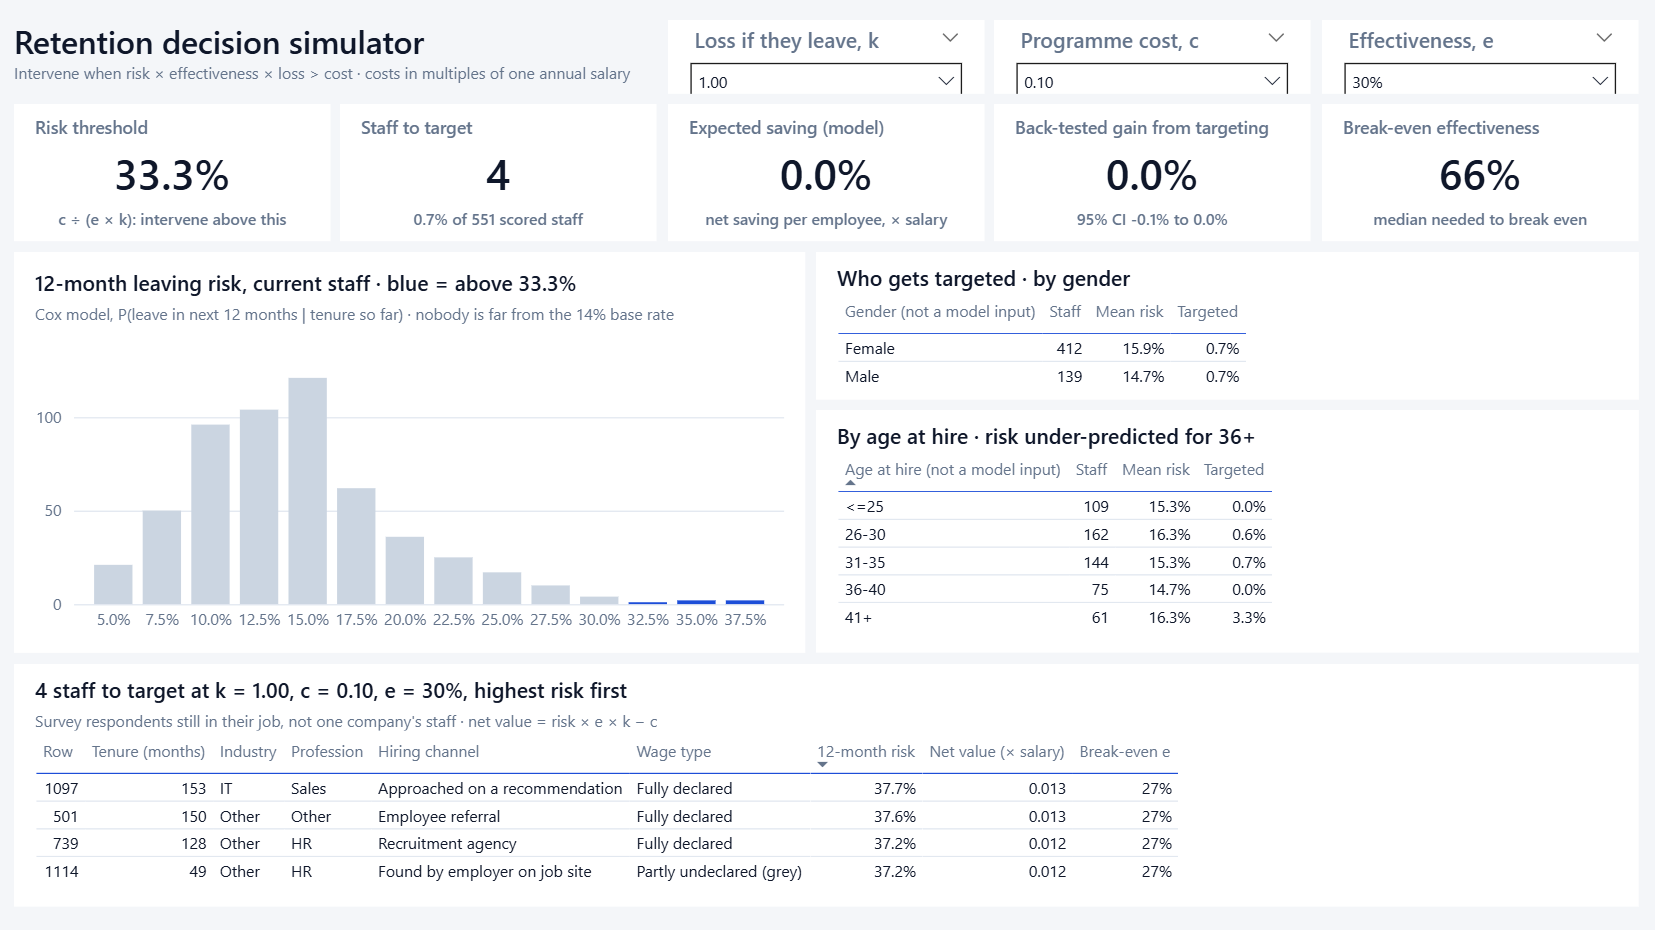
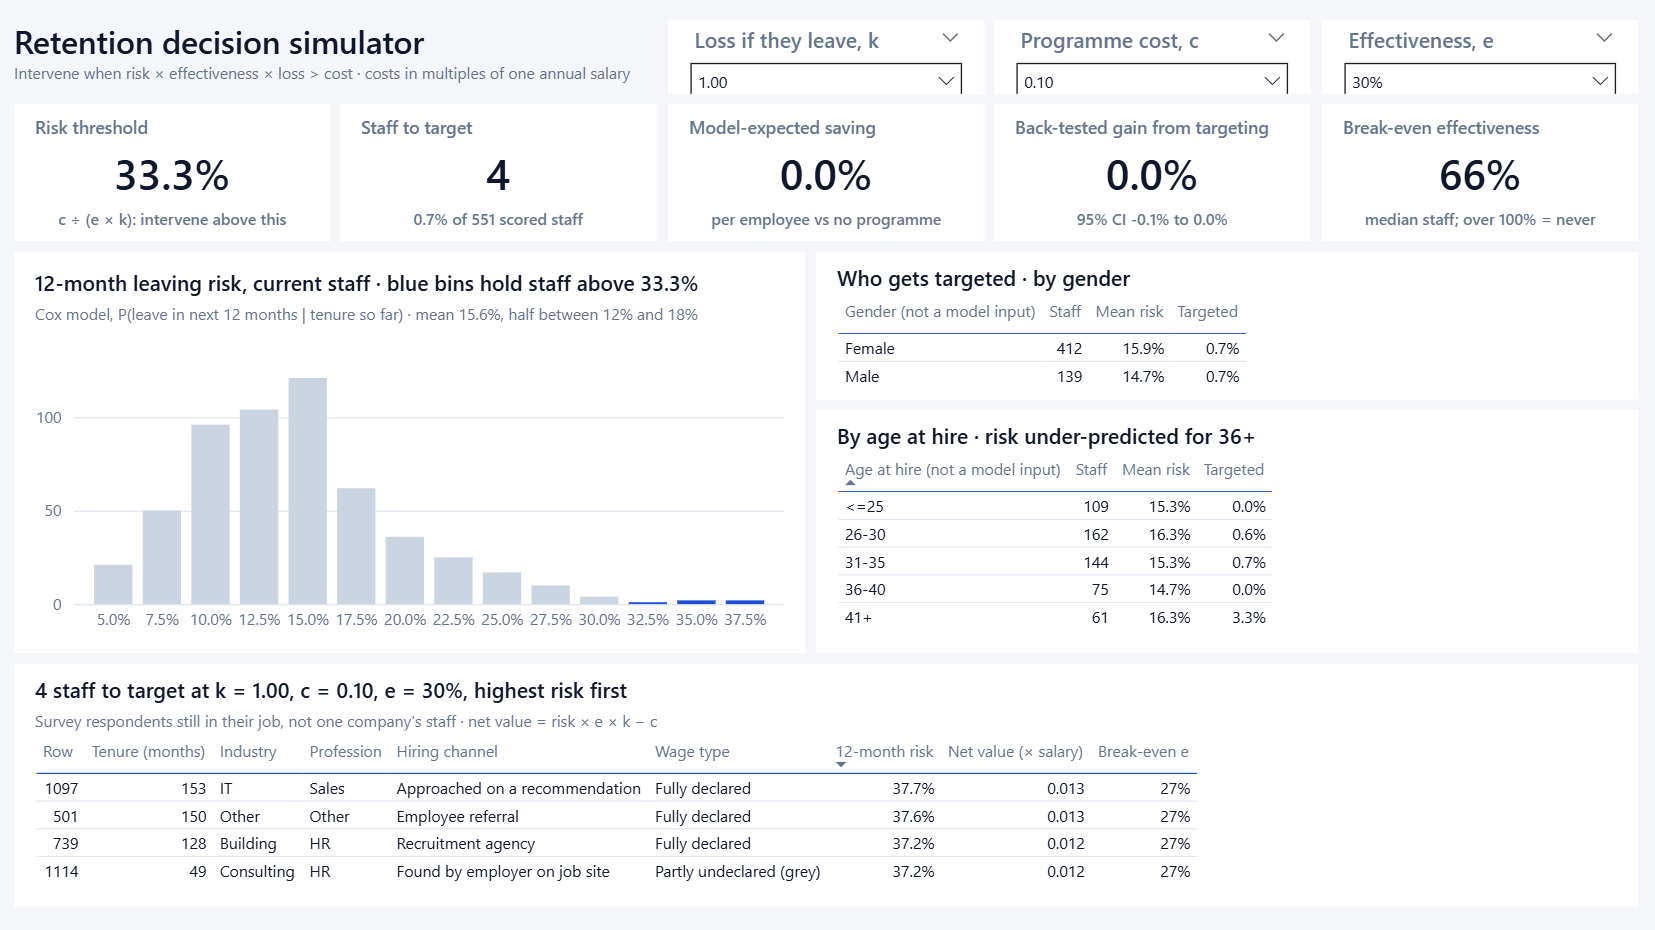
Address review of the Power BI report and memo
- Staff table pools rare categories with the full-data counts the model used
- Clearer KPI labels: model-expected saving is vs no programme; break-even is
  for the median staff member; off-grid back-test label lists the grid
- Histogram colours a bin if it holds anyone above the threshold
- No "-0.0%" in the back-test card; float-safe risk bins
- Memo/README: salary only cancels when both costs scale with pay; pilot
  needs about 600 per arm to detect 20% -> 14%; current-staff risk spread;
  20-25% first-year range for the fast-leaving industries

diff --git a/scripts/06_build_pbip.py b/scripts/06_build_pbip.py
@@ -132,29 +132,29 @@ DECISION_MEASURES = [
      "    backtest_grid[c_x100], ROUND ( [Sel c] * 100, 0 ),\n    backtest_grid[e_x100], ROUND ( [Sel e] * 100, 0 )\n)",
      "0.0%", "Decision"),
     ("Backtest Value",
-     'IF ( ISBLANK ( [Backtest Saving] ), "n/a", FORMAT ( [Backtest Saving], "+0.0%;-0.0%;0.0%" ) )', None, "Decision"),
+     'IF ( ISBLANK ( [Backtest Saving] ), "n/a", FORMAT ( ROUND ( [Backtest Saving], 3 ), "+0.0%;-0.0%;0.0%" ) )', None, "Decision"),
     ("Row Risk If Targeted",
      "VAR p = MAX ( staff[p_leave_12m] )\nRETURN\n    IF ( p > [Risk Threshold], p )", "0.0%", "Decision"),
     ("Row Net Value",
      "VAR p = MAX ( staff[p_leave_12m] )\nRETURN\n    IF ( p > [Risk Threshold], p * [Sel e] * [Sel k] - [Sel c] )", "0.000", "Decision"),
     ("Row Break-even e",
      "VAR p = MAX ( staff[p_leave_12m] )\nRETURN\n    IF ( p > [Risk Threshold], DIVIDE ( [Sel c], p * [Sel k] ) )", "0%", "Decision"),
-        ("Bin Color", f'IF ( MAX ( staff[risk_bin] ) + 0.0125 > [Risk Threshold], "{BLUE}", "{GREY}" )', None, "Colors"),
+        ("Bin Color", f'IF ( MAX ( staff[risk_bin] ) + 0.025 > [Risk Threshold], "{BLUE}", "{GREY}" )', None, "Colors"),
     ("Label Threshold", '"c ÷ (e × k): intervene above this"', None, "Labels"),
     ("Label Targeted", 'FORMAT ( [Share Targeted], "0.0%" ) & " of " & FORMAT ( [Staff Scored], "#,0" ) & " scored staff"',
      None, "Labels"),
-    ("Label Expected", '"net saving per employee, × salary"', None, "Labels"),
+    ("Label Expected", '"per employee vs no programme"', None, "Labels"),
     ("Label Backtest",
      "VAR lo = LOOKUPVALUE ( backtest_grid[lo95], backtest_grid[k_x100], ROUND ( [Sel k] * 100, 0 ), "
      "backtest_grid[c_x100], ROUND ( [Sel c] * 100, 0 ), backtest_grid[e_x100], ROUND ( [Sel e] * 100, 0 ) )\n"
      "VAR hi = LOOKUPVALUE ( backtest_grid[hi95], backtest_grid[k_x100], ROUND ( [Sel k] * 100, 0 ), "
      "backtest_grid[c_x100], ROUND ( [Sel c] * 100, 0 ), backtest_grid[e_x100], ROUND ( [Sel e] * 100, 0 ) )\nRETURN\n"
-     '    IF ( ISBLANK ( [Backtest Saving] ), "not a back-tested scenario",\n'
+     '    IF ( ISBLANK ( [Backtest Saving] ), "back-tested only for k 0.5/1/2, c .05/.1/.2",\n'
      '        "95% CI " & FORMAT ( lo, "0.0%" ) & " to " & FORMAT ( hi, "0.0%" ) )',
      None, "Labels"),
-    ("Label Break-even", '"median needed to break even"', None, "Labels"),
+    ("Label Break-even", '"median staff; over 100% = never"', None, "Labels"),
     ("Title Histogram",
-     '"12-month leaving risk, current staff · blue = above " & FORMAT ( [Risk Threshold], "0.0%" )', None, "Titles"),
+     '"12-month leaving risk, current staff · blue bins hold staff above " & FORMAT ( [Risk Threshold], "0.0%" )', None, "Titles"),
     ("Title Staff Table",
      'FORMAT ( [Staff Targeted], "#,0" ) & " staff to target at k = " & FORMAT ( [Sel k], "0.00" ) & ", c = " '
      '& FORMAT ( [Sel c], "0.00" ) & ", e = " & FORMAT ( [Sel e], "0%" ) & ", highest risk first"', None, "Titles"),
@@ -431,7 +431,7 @@ def page_decision():
              default="0.3D", alt="Choose the share of would-be leavers the intervention keeps.")
     kp = [("thr", "Risk Threshold", "Label Threshold", "Risk threshold"),
           ("tgt", "Staff Targeted", "Label Targeted", "Staff to target"),
-          ("exp", "Expected Saving", "Label Expected", "Expected saving (model)"),
+          ("exp", "Expected Saving", "Label Expected", "Model-expected saving"),
           ("bt", "Backtest Value", "Label Backtest", "Back-tested gain from targeting"),
           ("be", "Median Break-even e", "Label Break-even", "Break-even effectiveness")]
     for x, (key, val, lab, title) in zip(KPI_X, kp):
@@ -440,7 +440,7 @@ def page_decision():
             {"Category": {"projections": [C("staff", "risk_bin", "Predicted risk (2.5-point bins)", True)]},
              "Y": {"projections": [M("staff", "Staff Scored", "Staff")]}},
             {"expr": measure_ref("staff", "Title Histogram")},
-            "Cox model, P(leave in next 12 months | tenure so far) · nobody is far from the 14% base rate",
+            "Cox model, P(leave in next 12 months | tenure so far) · mean 15.6%, half between 12% and 18%",
             "Histogram of predicted 12-month leaving risk for current staff, bars above the threshold in blue.",
             objects={"dataPoint": [{"properties": {"fill": {"solid": {"color": {"expr": measure_ref(
                 "staff", "Bin Color")}}}},
@@ -509,7 +509,7 @@ def page_model():
         ("So the decision is driven by the assumptions. Targeting beats both 'nobody' and 'everybody' only when "
          "the threshold c ÷ (e·k) lands near the 14% base rate, and the best gain is 4.3% of one salary per employee.",
          "Segoe UI", "10pt", INK),
-        ("The number most worth measuring is e, the intervention's effectiveness, with a small randomised pilot.",
+        ("The number most worth measuring is e, the intervention's effectiveness, with a randomised pilot (about 600 people per arm to detect 20% → 14%).",
          "Segoe UI", "10pt", INK),
         ("Caveats: a self-selected survey, not one company · personality was measured at survey time · "
          "associations, not causes · data CC BY-NC-SA 4.0, © Edward Babushkin.", "Segoe UI", "9pt", MUTED),

diff --git a/scripts/05_export_bi.py b/scripts/05_export_bi.py
@@ -111,10 +111,13 @@ def main():
     hr.to_csv(BI / "hazard_ratios.csv", index=False, float_format="%.4f")
 
     staff = pd.read_csv(D.ROOT / "data" / "processed" / "staff_scores.csv")
-    for col in ["industry", "profession", "traffic", "coach", "greywage", "way"]:
-        staff[col] = factor_series(staff.assign(**{col: staff[col]}), col) if col in D.CATEGORICAL else staff[col]
+    for col in D.CATEGORICAL:
+        # pool with the full-data counts the model used, not the smaller staff subset's
+        kept = set(D.lump(d[col]))
+        staff[col] = staff[col].where(staff[col].isin(kept), "other").map(lambda v: label(col, v))
     staff["gender"] = staff["gender"].map(LEVELS["gender"])
-    staff["risk_bin"] = np.floor(staff["p_leave_12m"] / 0.025) * 0.025
+    # small epsilon so values on a bin edge (e.g. 0.075) are not pushed down by float error
+    staff["risk_bin"] = np.floor(staff["p_leave_12m"] / 0.025 + 1e-9) * 0.025
     keep = ["row_id", "tenure_months", "industry", "profession", "traffic", "coach", "greywage", "way",
             "p_leave_12m", "risk_bin", "gender", "age_band"]
     staff[keep].to_csv(BI / "staff.csv", index=False, float_format="%.4f")

diff --git a/README.md b/README.md
@@ -45,7 +45,7 @@ The following is from Babushkin's Russian-language blog posts, found with a web 
 | 510 rows share a full personality profile, or a tenure/age/job record, with another row: likely the same person entered more than once | Rows are linked into **771 "person groups"** (connected components). CV folds and bootstrap resamples never split a group, and test standard errors are cluster-robust. Ignoring the grouping inflates the CV C-index from 0.613 to 0.623, which is exactly the leakage the grouping prevents. |
 | `Finance` is garbled (a Cyrillic letter) and `HoReCa` has a leading space | Fixed in `data.clean`. |
 | Categories with fewer than 30 rows | Pooled into `other` for modelling. |
-| No salary column | Costs are expressed in **multiples of annual salary**. Salary then cancels out of the decision rule (see below). |
+| No salary column | Costs are expressed in **multiples of annual salary**. When both costs scale with salary, salary cancels out of the decision rule (see below). |
 
 **Limitations that no code can fix.** The data is a self-selected survey, not one company's HR records, so "current staff" means respondents still in the job they described. Personality was measured at survey time, possibly after the person left. Exits are self-reported.
 
@@ -74,7 +74,7 @@ The median tenure is **51 months**. 14% of people leave within 12 months and 30%
 
 | Factor | Robust p | BH q | Pattern |
 |---|---|---|---|
-| Industry | <0.001 | <0.001 | Banks, Building, Consulting and State leave fastest (about 22–25% gone in year 1). IT, Power and Telecom are slowest. |
+| Industry | <0.001 | <0.001 | Banks, Building, Consulting and State leave fastest (about 20–25% gone in year 1). IT, Power and Telecom are slowest. |
 | Grey wage | <0.001 | <0.001 | Median tenure is **26 months on a grey wage vs 54 on a white wage**. |
 | Age band at hire (protected) | <0.001 | <0.001 | Those hired aged 36 or older leave sooner. |
 | Hiring channel | 0.002 | 0.005 | People who came through friends, referrals or direct applications stay longest. Job-site hires stay shortest. |
@@ -113,7 +113,7 @@ All costs are in units of **one annual salary**:
 - `c`: cost of the intervention.
 - `e`: effectiveness, meaning the share of would-be leavers the intervention keeps.
 
-Intervening on someone with leaving probability `p` saves `p·e·k` and costs `c`, so it pays when **`p > c / (e·k)`**. Salary cancels out, which is why the missing salary column doesn't matter. The rule only works if `p` is calibrated, which is why calibration is reported above. For each current employee the output also gives the **break-even effectiveness** `c / (p·k)`: how well an intervention would have to work to pay for itself.
+Intervening on someone with leaving probability `p` saves `p·e·k` and costs `c`, so it pays when **`p > c / (e·k)`**. When both `k` and `c` scale with salary, salary cancels out, which is why the missing salary column doesn't matter. For a fixed-price programme it does not cancel: the cut-off falls as salary rises. The rule only works if `p` is calibrated, which is why calibration is reported above. For each current employee the output also gives the **break-even effectiveness** `c / (p·k)`: how well an intervention would have to work to pay for itself.
 
 **Back-test.** Out-of-fold P(leave within 12 months of hire) was compared with what actually happened. Inverse-probability-of-censoring weights account for people whose 12-month outcome is unknown. The test covered 45 scenarios: k ∈ {0.5, 1, 2} × c ∈ {0.05, 0.1, 0.2} × e ∈ {0.1, …, 0.7}.
 
@@ -124,7 +124,7 @@ Intervening on someone with leaving probability `p` saves `p·e·k` and costs `c
 | Largest saving | 4.3% of one salary per employee (k = 2, c = 0.2, e = 0.7) |
 | Base case (k = 1, c = 0.1, e = 0.3) | The threshold is 0.33, so 4 of 551 current staff would be targeted. In practice the rule says "don't run this programme". |
 
-`figures/targeting_gain.png` and `figures/cost_vs_threshold.png` show this. The model matters only when the economics are already on the fence. Elsewhere, the cost assumptions decide everything, so **the most valuable number to estimate is `e`, not a better C-index**. A small randomised pilot of the intervention would be worth more than a better model.
+`figures/targeting_gain.png` and `figures/cost_vs_threshold.png` show this. The model matters only when the economics are already on the fence. Elsewhere, the cost assumptions decide everything, so **the most valuable number to estimate is `e`, not a better C-index**. A randomised pilot of the intervention would be worth more than a better model. It must be large enough: detecting a fall from 20% to 14% needs about 600 people per arm (80% power).
 
 The bootstrap intervals hold the model's predictions fixed, so they understate the uncertainty.
 

diff --git a/docs/decision_memo.md b/docs/decision_memo.md
@@ -4,7 +4,7 @@
 
 ## Recommendation
 
-**Don't buy a turnover-prediction model to target a retention programme yet. First run a small, randomised pilot of the programme itself** to measure how many would-be leavers it actually keeps.
+**Don't buy a turnover-prediction model to target a retention programme yet. First run a randomised pilot of the programme itself** to measure how many would-be leavers it actually keeps.
 
 That one number decides whether the programme pays, and for whom. The prediction model barely changes the answer.
 
@@ -32,7 +32,7 @@ We analysed 1,116 real employees from a survey of Russian-speaking office worker
 
 A mentor during probation made no measurable difference. These are patterns, not proof of cause: grey pay probably marks a certain kind of employer more than it drives people out.
 
-**Predicting *individuals* is much harder than describing groups.** The best model ranks people only a little better than a coin toss (60% of pairs ranked correctly, against 50% for chance). Almost everyone's predicted first-year risk falls between 5% and 38%, and most are close to the 14% average.
+**Predicting *individuals* is much harder than describing groups.** The best model ranks people only a little better than a coin toss (60% of pairs ranked correctly, against 50% for chance). Current staff's predicted risk of leaving in the next 12 months ranges from 5% to 38%, but half of them sit between 12% and 18%.
 
 ## Why the model doesn't settle the decision
 
@@ -40,7 +40,7 @@ Offering someone the package pays when:
 
 > **chance they leave × share of leavers the package keeps × cost of losing them > cost of the package**
 
-Costs are counted in **annual salaries**. Replacing someone typically costs half a salary to two salaries; the package might cost 5–20% of a salary. Salary then cancels out, so the rule works for any pay level.
+Costs are counted in **annual salaries**. Replacing someone typically costs half a salary to two salaries; the package might cost 5–20% of a salary. When both costs scale with salary (a raise, a bonus), salary cancels out and the rule works for any pay level. For a fixed-price programme (a course, coaching), the cut-off is lower for higher earners.
 
 ![Cost per employee at each risk cut-off, for two sets of assumptions](../reports/figures/cost_vs_threshold.png)
 
@@ -59,7 +59,7 @@ The model doesn't use gender or age. Even so, it **underestimates the risk for p
 
 ## Next steps
 
-1. **Pilot:** offer the package to a random half of one high-turnover unit for 12 months and compare leaving rates. This measures effectiveness directly.
+1. **Pilot:** offer the package to a random half of eligible staff for 12 months and compare leaving rates. This measures effectiveness directly. Plan the size properly: detecting a drop from 20% to 14% (30% effectiveness) needs about 600 people in each half, so pool several high-turnover units. A pilot in one small team will almost certainly be inconclusive.
 2. **Use the pilot result in the decision tool** (Power BI, "Decision simulator" page). It shows instantly who to target, and what it saves, for any cost and effectiveness.
 3. **Look at the groups that leave fast.** Grey pay, job-site hiring and certain industries are worth investigating as policy questions, not just as prediction inputs.
 
